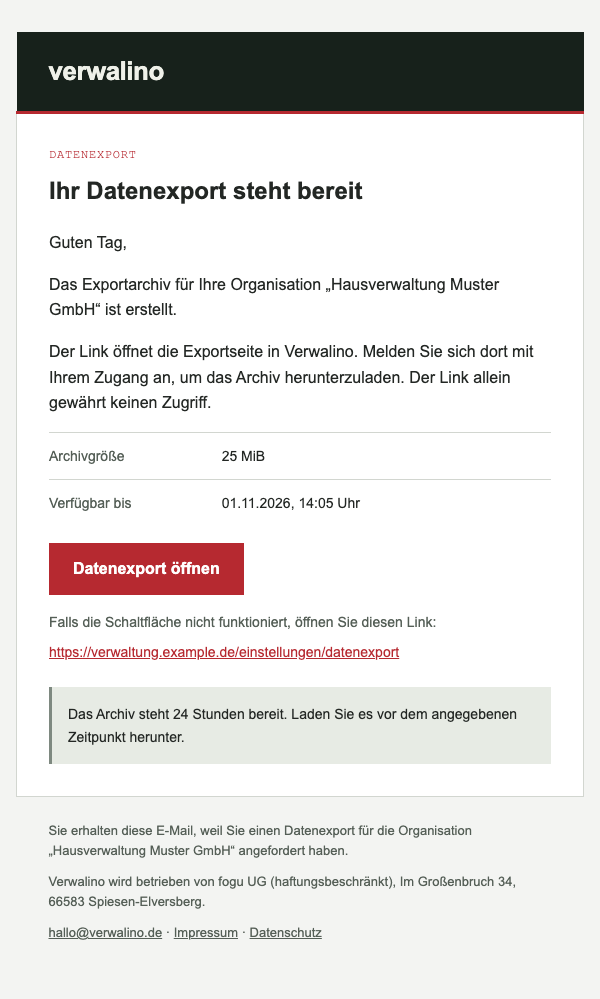
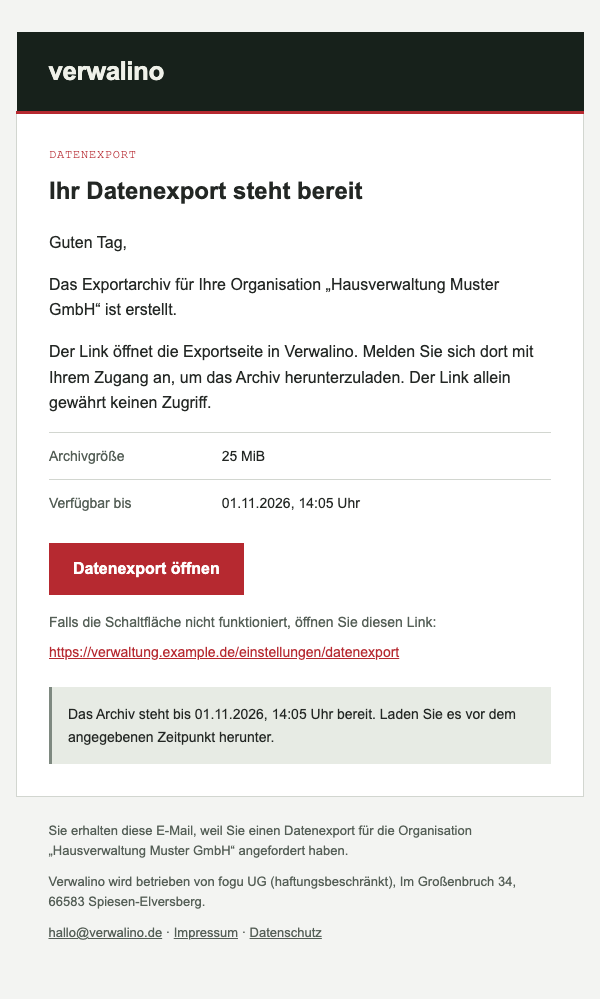
fix(mail): validate subjects and derive rendered values
Subject inputs accepted MIME encoded words until rendering, export copy
assumed a fixed 24-hour lifetime, and quota percentages could contradict
byte usage.

Reject encoded words through Name validation while retaining the final
subject guard. Format the supplied export deadline in Berlin time. Derive
quota percentage from byte counts, rounding halves up, so callers provide
only usage and limit. Update the sample and document these contracts.

Red first: the new regressions produced 17 failed, 16 passed, 217 deselected
before implementation. The focused green run produced 33 passed,
217 deselected. Subject templates are checked directly, independently of
the render guard; the guard remains tested with validation bypassed.

Snapshot refresh was restricted to export_ready with
UPDATE_MAIL_SNAPSHOTS=1 and the export-only snapshot test (1 passed,
249 deselected). The export subject and every other snapshot are unchanged.
Snapshot diff:

diff --git a/backend/tests/mail_snapshots/export_ready.html b/backend/tests/mail_snapshots/export_ready.html
index b4ff5d2..c86bc62 100644
--- a/backend/tests/mail_snapshots/export_ready.html
+++ b/backend/tests/mail_snapshots/export_ready.html
@@ -72,7 +72,7 @@
               </p>
               <table role="presentation" cellpadding="0" cellspacing="0" border="0" width="100%" style="width:100%;border-collapse:collapse;">
[…]

Changed region(s): [[0.12, 0.7137, 0.87, 0.7447]]

diff --git a/backend/tests/mail_snapshots/export_ready.html b/backend/tests/mail_snapshots/export_ready.html
@@ -72,7 +72,7 @@
               </p>
               <table role="presentation" cellpadding="0" cellspacing="0" border="0" width="100%" style="width:100%;border-collapse:collapse;">
                 <tr style="vertical-align:top;"><td class="note" style="padding:16px;background-color:#E7EBE4;border-left:3px solid #7E8980;">
-                  <p class="text" style="margin:0;padding:0 0 0;font-size:14px;line-height:1.6;color:#232724;">Das Archiv steht 24 Stunden bereit. Laden Sie es vor dem angegebenen Zeitpunkt herunter.</p>
+                  <p class="text" style="margin:0;padding:0 0 0;font-size:14px;line-height:1.6;color:#232724;">Das Archiv steht bis 01.11.2026, 14:05 Uhr bereit. Laden Sie es vor dem angegebenen Zeitpunkt herunter.</p>
                 </td></tr>
               </table>
             </td>

diff --git a/backend/tests/test_mail_templates.py b/backend/tests/test_mail_templates.py
@@ -13,7 +13,7 @@ import pytest
 from pydantic import ValidationError
 
 from app.core.config import settings
-from app.mail import RenderedMail, render_mail
+from app.mail import ENVIRONMENT, RenderedMail, render_mail
 from app.mail.contexts import (
     CONTEXT_TYPES, MailLink, OperatorNotice, PasswordReset, SignupWelcome,
 )
@@ -163,11 +163,61 @@ def test_dates_sizes_masking_validity_and_optional_copy():
         type(SAMPLES["quota_storage_warning"])(**{**SAMPLES["quota_storage_warning"].model_dump(), "percent": 101})
 
 
+@pytest.mark.parametrize("kind,field", [
+    ("user_invitation", "organization_name"),
+    ("operator_notice", "title"),
+    ("operator_alert", "check"),
+    ("operator_alert", "environment"),
+])
+@pytest.mark.parametrize("value", ["Wer=?Wie", "=?utf-8?b?DQpCY2M6IHZpY3RpbUBleGFtcGxlLmRlDQo=?="])
+def test_subject_fields_refuse_encoded_words_at_context_validation(kind, field, value):
+    context = SAMPLES[kind]
+    with pytest.raises(ValidationError, match="encoded words"):
+        type(context)(**{**context.model_dump(), field: value})
+
+
+@pytest.mark.parametrize("kind", CONTEXT_TYPES)
+def test_subject_templates_never_contain_encoded_words(kind):
+    subject = ENVIRONMENT.get_template(f"{kind}.subject.txt").render(mail=SAMPLES[kind], hosted=True)
+    assert "=?" not in subject
+
+
+def test_export_copy_uses_the_actual_deadline_in_german_format():
+    context = SAMPLES["export_ready"]
+    deadline = datetime(2027, 7, 3, 9, 42, tzinfo=timezone.utc)
+    rendered = render_mail(type(context)(**{**context.model_dump(), "available_until": deadline}))
+    for part in (rendered.text, rendered.html):
+        assert "Das Archiv steht bis 03.07.2027, 11:42 Uhr bereit." in part
+        assert "24 Stunden" not in part
+
+
+@pytest.mark.parametrize("used,limit,percent", [
+    (0, 1, 0), (1, 3, 33), (2, 3, 67), (1, 8, 13),
+    (1717986918, 2 * 1024**3, 80), (100, 100, 100), (101, 100, 101),
+])
+def test_quota_percentage_is_derived_from_byte_counts(used, limit, percent):
+    sample = SAMPLES["quota_storage_warning"]
+    context = type(sample)(**{
+        **sample.model_dump(exclude={"percent"}), "used_bytes": used, "limit_bytes": limit,
+    })
+    assert context.percent == percent
+    rendered = render_mail(context)
+    assert f"{percent} %" in rendered.subject
+    assert f"{percent} %" in rendered.text
+    assert f"{percent} %" in rendered.html
+
+
+def test_quota_context_refuses_an_independent_percentage():
+    context = SAMPLES["quota_storage_warning"]
+    with pytest.raises(ValidationError):
+        type(context)(**{**context.model_dump(), "used_bytes": 0, "limit_bytes": 1, "percent": 100})
+
+
 def test_encoded_words_cannot_reach_the_subject():
     invitation = SAMPLES["user_invitation"]
     smuggled = "Muster =?utf-8?b?DQpCY2M6IHZpY3RpbUBleGFtcGxlLmRlDQo=?="
     with pytest.raises(ValueError, match="encoded words"):
-        render_mail(type(invitation)(**{**invitation.model_dump(), "organization_name": smuggled}))
+        render_mail(invitation.model_copy(update={"organization_name": smuggled}))
 
 
 def test_operator_text_is_escaped_and_optional_action_is_rendered():

diff --git a/backend/app/mail/contexts.py b/backend/app/mail/contexts.py
@@ -34,7 +34,13 @@ def _link(value: str) -> str:
     return value
 
 
-Name = Annotated[str, StringConstraints(strict=True, min_length=1, max_length=200), BeforeValidator(_clean)]
+def _subject_safe(value: str) -> str:
+    if "=?" in value:
+        raise ValueError("Names must not contain encoded words")
+    return value
+
+
+Name = Annotated[str, StringConstraints(strict=True, min_length=1, max_length=200), BeforeValidator(_clean), AfterValidator(_subject_safe)]
 Paragraph = Annotated[str, StringConstraints(strict=True, min_length=1, max_length=2000), BeforeValidator(_clean)]
 MailLink = Annotated[str, StringConstraints(strict=True, min_length=1, max_length=2048), BeforeValidator(_clean), AfterValidator(_link)]
 PositiveInt = Annotated[int, Field(strict=True, gt=0)]
@@ -110,8 +116,12 @@ class QuotaStorageWarning(MailContext):
     organization_name: Name
     used_bytes: Bytes
     limit_bytes: PositiveInt
-    percent: Annotated[int, Field(strict=True, ge=0, le=100)]
     settings_link: MailLink
+
+    @property
+    def percent(self) -> int:
+        # Round to the nearest whole percent, with halves rounded up.
+        return (100 * self.used_bytes + self.limit_bytes // 2) // self.limit_bytes
 
 
 class QuotaStorageFull(MailContext):

diff --git a/backend/app/mail/samples.py b/backend/app/mail/samples.py
@@ -30,7 +30,7 @@ SAMPLES = {context.kind: context for context in (
     PasswordReset(reset_link=f"{ORIGIN}/passwort-zuruecksetzen?token={TOKEN}", valid_minutes=60),
     PasswordChanged(changed_at=NOW, sessions_revoked=True, reset_request_link=f"{ORIGIN}/passwort-vergessen"),
     QuotaStorageWarning(organization_name=ORGANIZATION, used_bytes=1717986918,
-                        limit_bytes=2 * 1024**3, percent=80, settings_link=f"{ORIGIN}/einstellungen"),
+                        limit_bytes=2 * 1024**3, settings_link=f"{ORIGIN}/einstellungen"),
     QuotaStorageFull(organization_name=ORGANIZATION, used_bytes=2 * 1024**3,
                      limit_bytes=2 * 1024**3, settings_link=f"{ORIGIN}/einstellungen"),
     AiBudgetExhausted(organization_name=ORGANIZATION, resets_on=date(2026, 11, 1),

diff --git a/docs/architecture.md b/docs/architecture.md
@@ -742,7 +742,10 @@ immutable subject, plain text and HTML, and `apply_to(EmailMessage)` attaches
 the alternatives without changing sender, recipient, date or message ID.
 Fifteen frozen Pydantic contexts provide one kind-to-class inventory; bounded
 strings reject controls, links require HTTPS (HTTP only on loopback), and times
-must be timezone-aware. Jinja2 uses HTML autoescape and `StrictUndefined` with
+must be timezone-aware. Names reject MIME encoded words during context validation;
+rendering checks the final subject as well. Storage warning percentages are
+derived from byte counts, rounded to the nearest integer (halves up); export
+copy uses the supplied deadline in German date/time format. Jinja2 uses HTML autoescape and `StrictUndefined` with
 packaged, developer-only German templates and a shared website-brand layout.
 Unlike T48's user-editable placeholder text, these templates are executable
 developer code and are never loaded from user input or user paths. No generic
